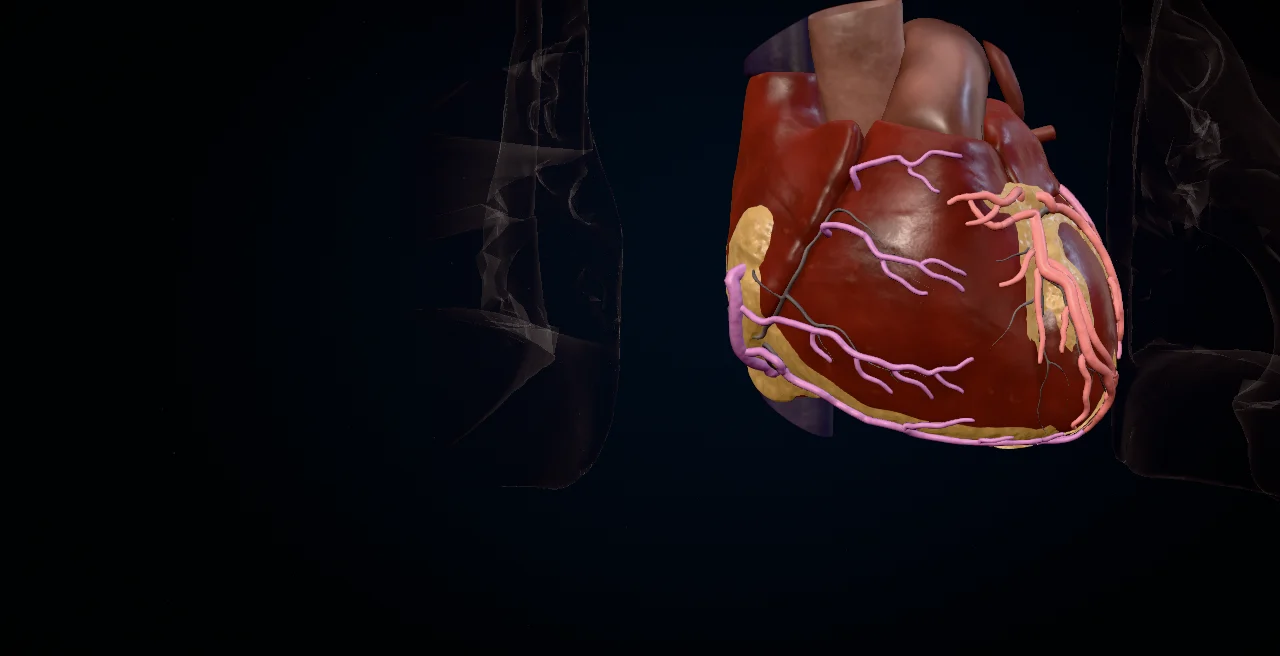
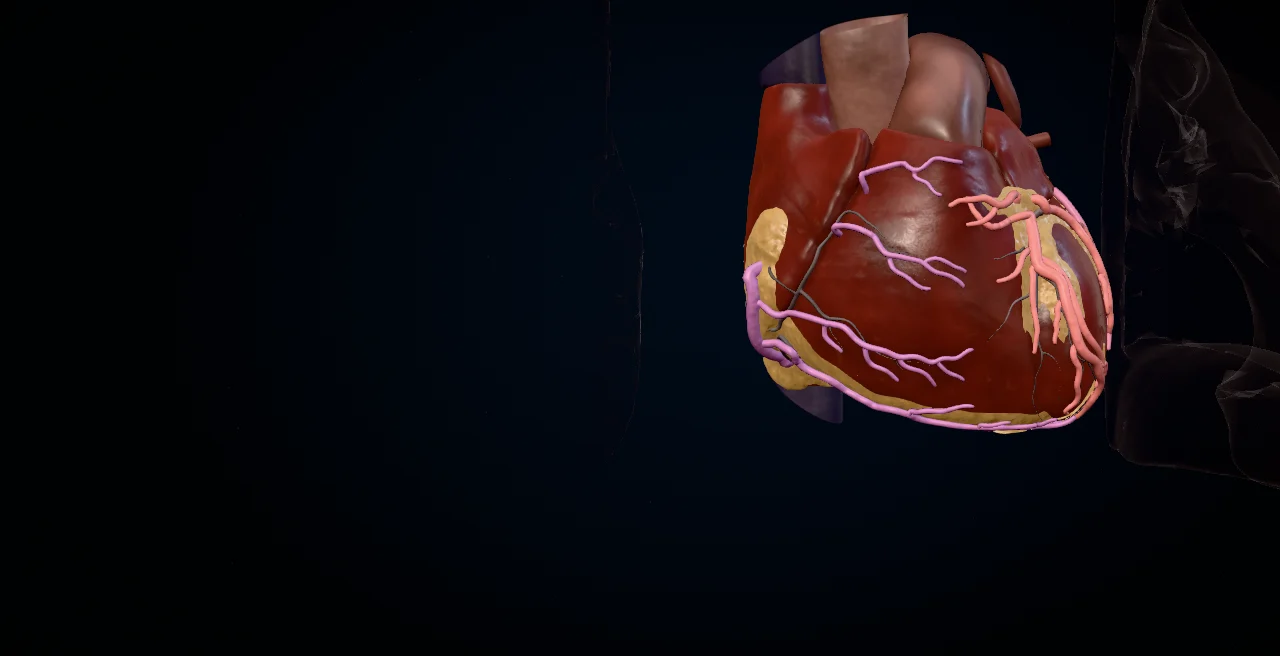
fix(3d): landing hero keeps its trimmed great vessels 24 px inside the free area and fades the lung ghosts to nothing at the copy column's edge (no ghost behind the headline); hero posters re-rendered to match

diff --git a/frontend/src/three/camera/CameraRig.tsx b/frontend/src/three/camera/CameraRig.tsx
@@ -67,6 +67,7 @@ const THORAX_FULL_UNTIL = 0.2;
 const VIEW_WINDOW: readonly [number, number] = [0.05, 0.8];
 /** Margin (px) between the free-area edge and the visible great vessels (≥ 24 px from the canvas top). */
 const KEEP_MARGIN = 12;
+const HERO_KEEP_MARGIN = 24;
 /** A vessel's best view keeps the home distance for its angle: the target leaning onto the vessel is the "going to it". */
 const FOCUS_ZOOM = 1;
 /**
@@ -265,8 +266,9 @@ export function CameraRig() {
       // The real walls' silhouette (not their box) fills the share; the visible great vessels stay inside.
       points: heart,
       keep,
-      // The hero is full-bleed under the top bar: its fading vessels may reach the free area's edge.
-      keepMargin: forStage === 'hero' ? 0 : KEEP_MARGIN,
+      // The hero's trimmed great vessels end at least 24 px below the top of its free area (never cut by the
+      // top bar); the workstation keeps KEEP_MARGIN.
+      keepMargin: forStage === 'hero' ? HERO_KEEP_MARGIN : KEEP_MARGIN,
       target: geo.target,
       direction,
       fov: CAMERA_FOV,

diff --git a/frontend/src/three/anatomy/GlbAnatomy.tsx b/frontend/src/three/anatomy/GlbAnatomy.tsx
@@ -335,8 +335,9 @@ export function GlbAnatomy({ url }: { url: string }) {
     const mask = GHOST_MASK.uGhostMask.value;
     const width = state.size.width;
     if (hero && width > 0) {
+      // Zero at the copy column's edge, full strength 8 % of the width beyond it: no ghost behind the headline.
       const left = useUiStore.getState().stageInsets.left / width;
-      mask.set(left, Math.max(0.01, left * 0.35));
+      mask.set(left + 0.08, 0.08);
     } else mask.set(-1, 1);
     // Labels follow the wall they sit on through the peel and the assembly (never the beat).
     for (const a of anchorRest.current) {
